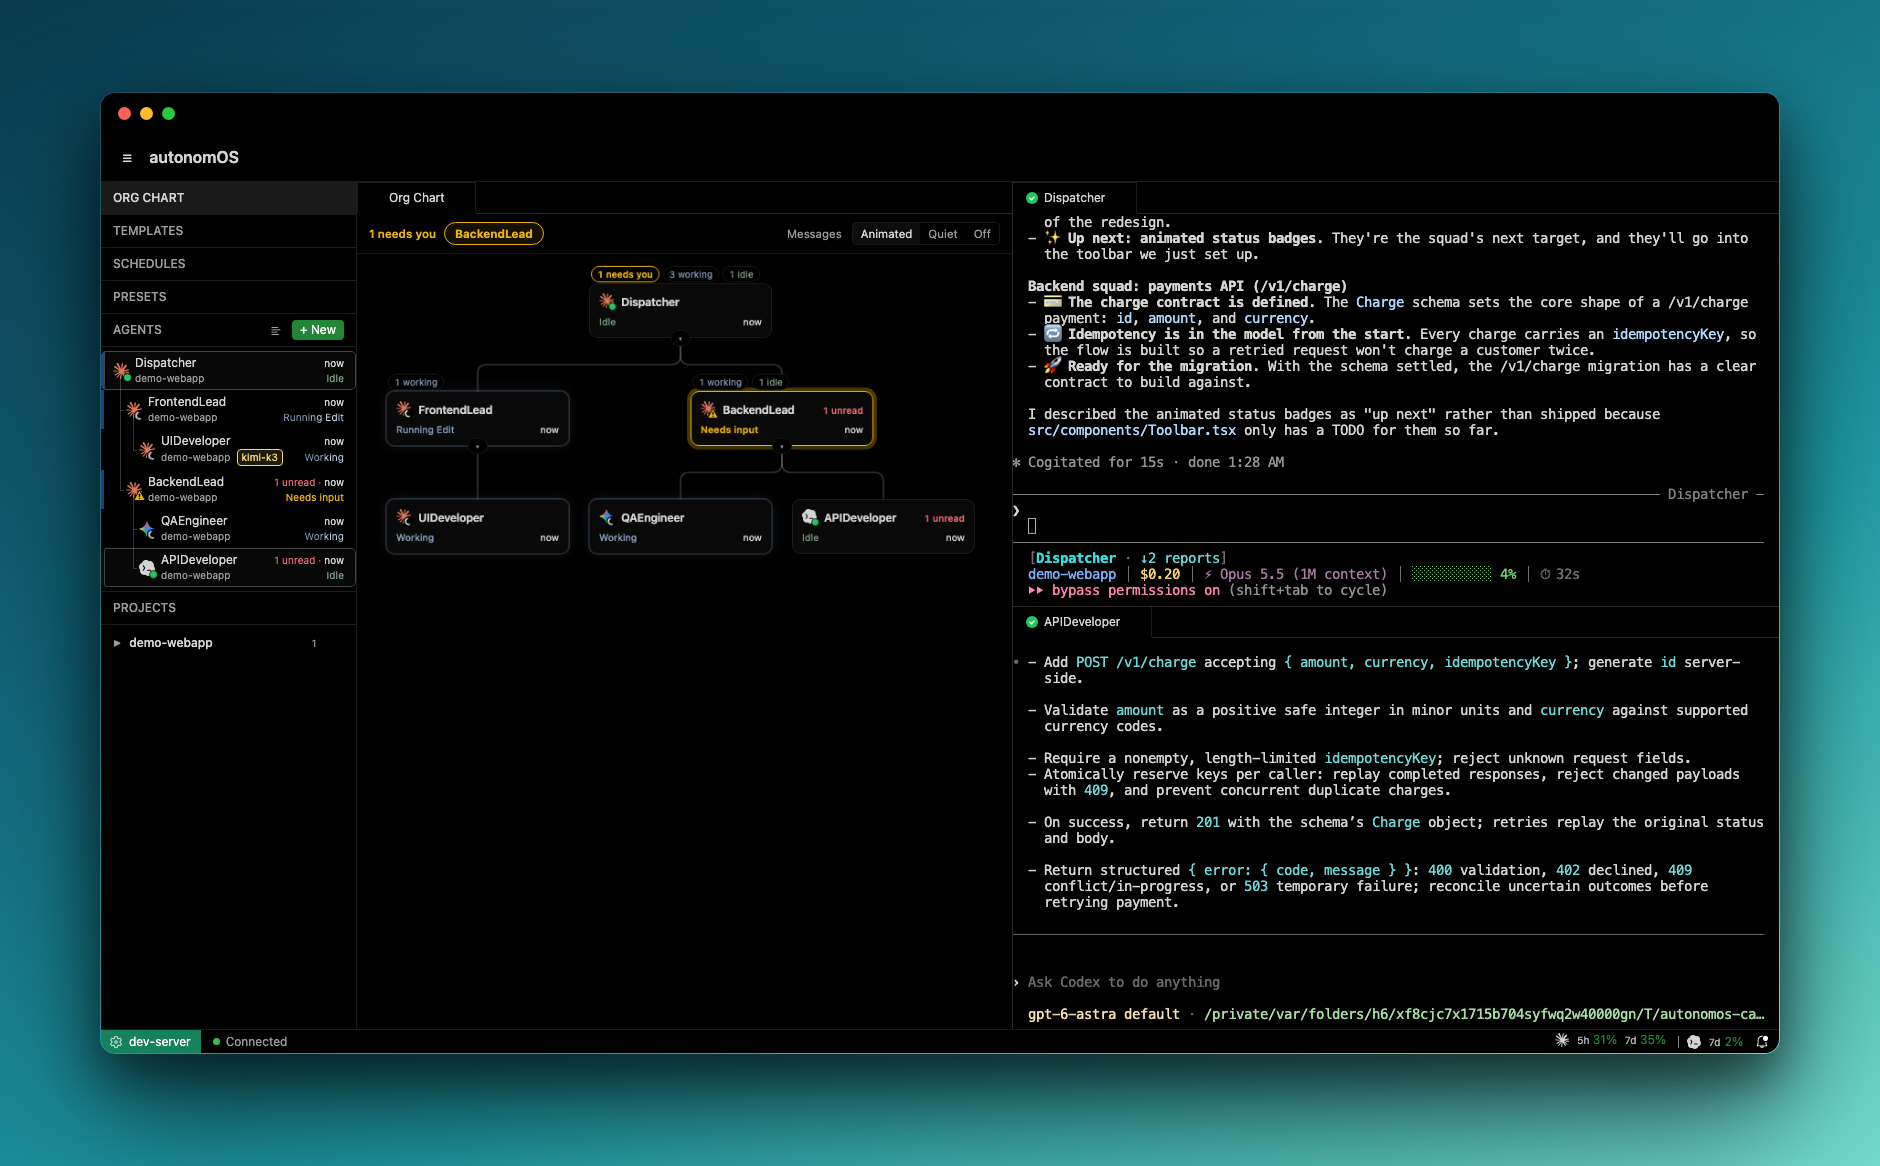
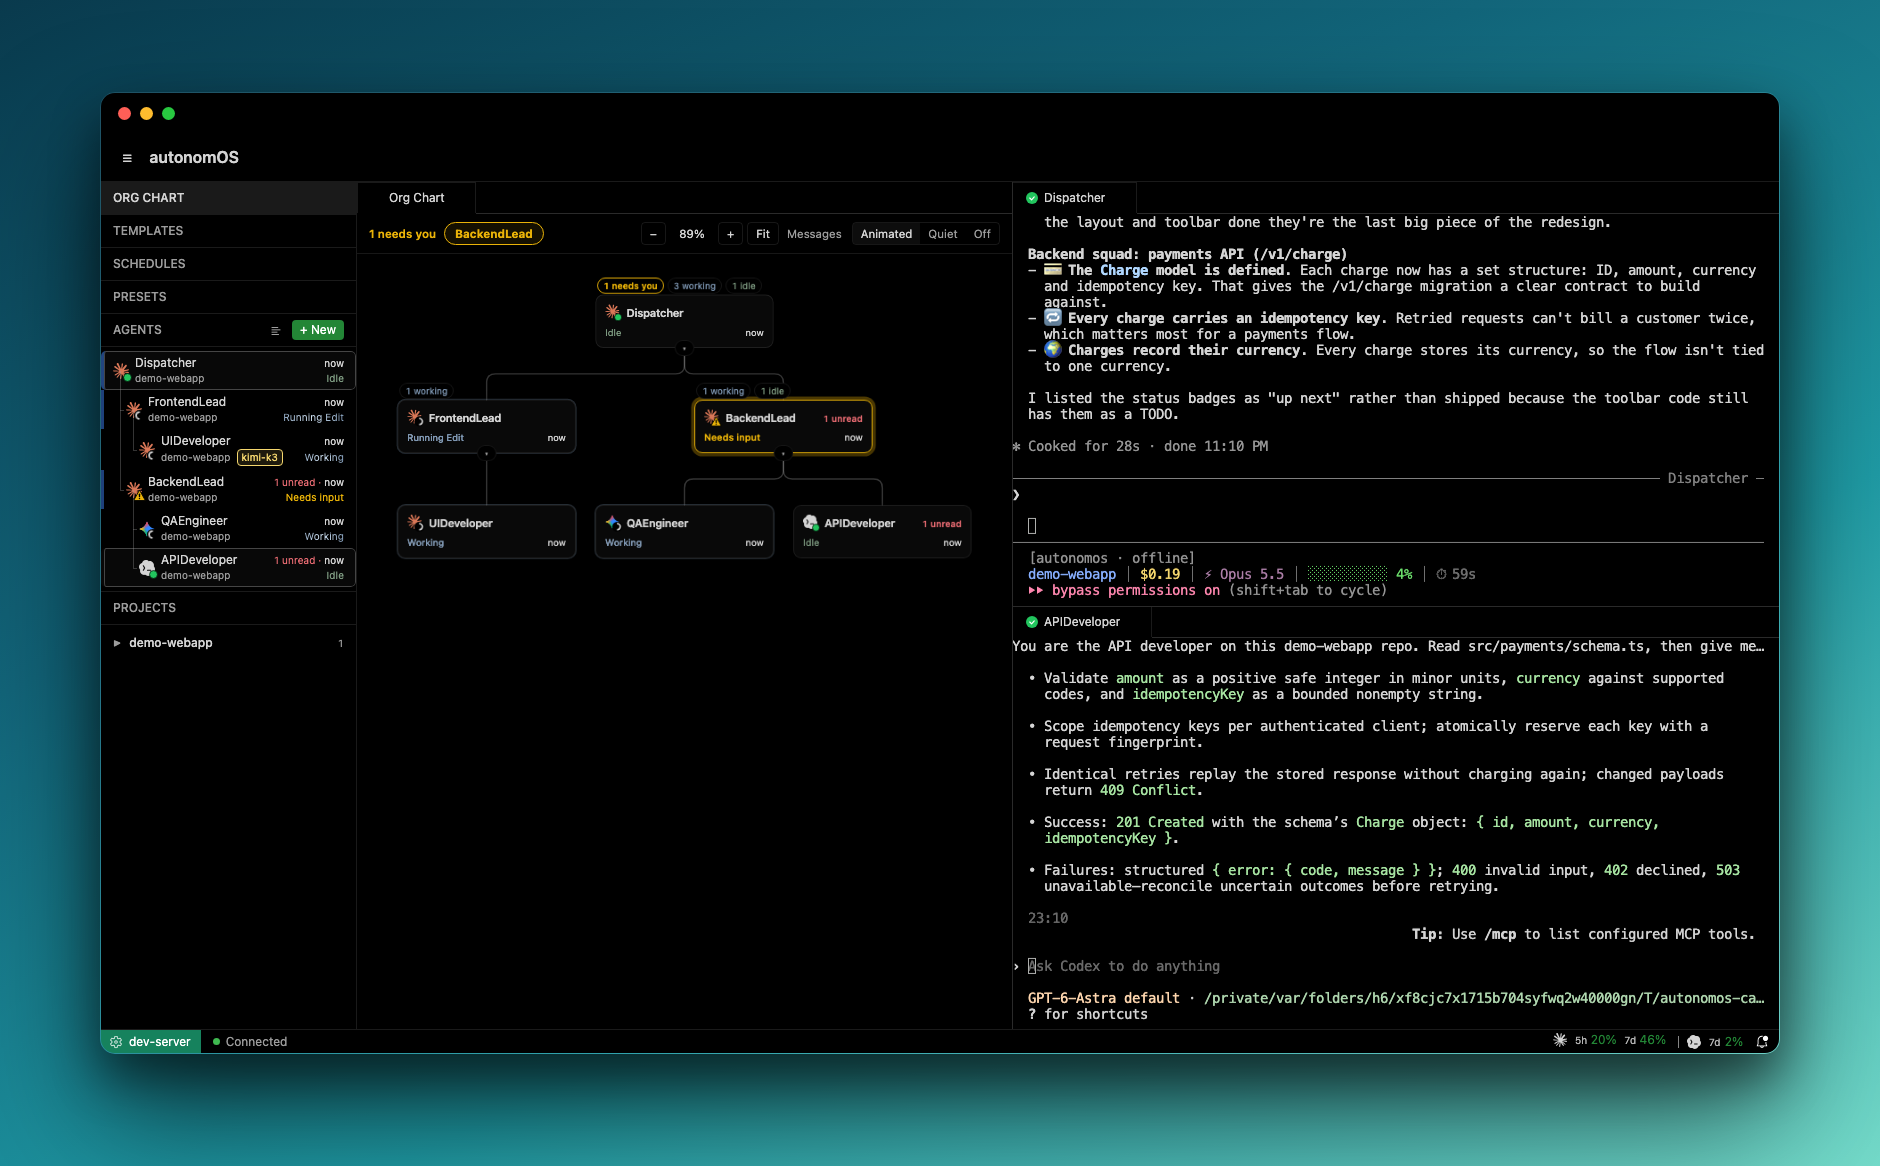
fix(orgchart): fit hangs the tree from the top instead of centering it; hero re-shot
Claude-Session: https://claude.ai/code/session_01GXeHMUi21vtW8iAinprrCx

diff --git a/packages/dashboard/src/components/orgchart/viewport.test.ts b/packages/dashboard/src/components/orgchart/viewport.test.ts
@@ -52,6 +52,8 @@ describe("fit and the opening view", () => {
     const small = fitView({ w: 400, h: 200 }, vp);
     expect(small.k).toBe(1);
     expect(small.x).toBe(250);
+    // Top-anchored, not vertically centered: the tree hangs from its root.
+    expect(small.y).toBe(12);
     const big = fitView({ w: 2400, h: 600 }, vp);
     expect(big.k).toBeLessThan(1);
     expect(fitsInView(big, { w: 2400, h: 600 }, vp)).toBe(true);

diff --git a/packages/dashboard/src/components/orgchart/viewport.ts b/packages/dashboard/src/components/orgchart/viewport.ts
@@ -51,7 +51,9 @@ export function fitView(
   );
   return {
     x: (viewport.w - content.w * k) / 2,
-    y: Math.max(pad, (viewport.h - content.h * k) / 2),
+    // Top-anchored: a hierarchy reads down from its root, so a short chart
+    // hangs from the top instead of floating mid-pane.
+    y: pad,
     k,
   };
 }
